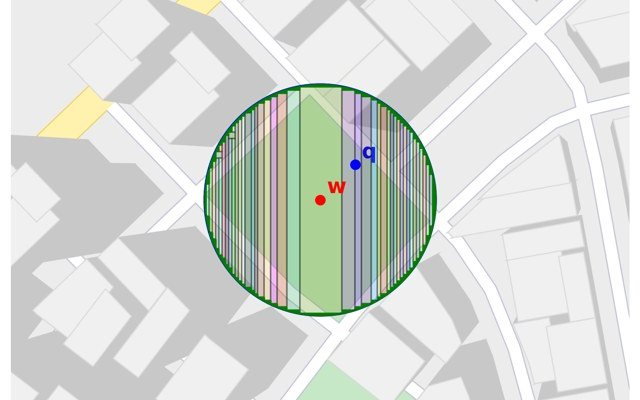
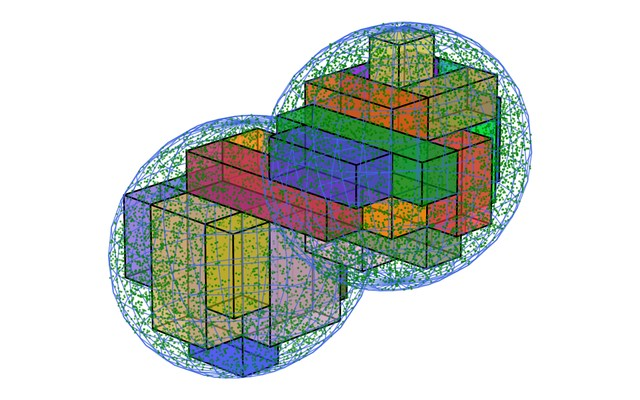
Tabs: remove the link-to-this anchors; paper preview shows the two 3D balls

diff --git a/layouts/_default/timeline.html b/layouts/_default/timeline.html
@@ -103,10 +103,7 @@
                                 <div class="tl-block">
                                     <h4 class="tl-cap">Keywords</h4>
                                     <p class="tl-keys">{{ if reflect.IsSlice . }}{{ delimit . ", " }}{{ else }}{{ . }}{{ end }}</p>
-                                    <a class="tl-perma" href="#{{ $id }}">Link to this paper</a>
                                 </div>
-                                {{- else }}
-                                <div class="tl-block"><a class="tl-perma" href="#{{ $id }}">Link to this paper</a></div>
                                 {{- end }}
                             </aside>
                             {{- else }}
@@ -134,13 +131,12 @@
                                     <div class="tl-files">{{ . | safeHTML }}</div>
                                 </div>
                                 {{- end }}
+                                {{- with $keys }}
                                 <div class="tl-block">
-                                    {{- with $keys }}
                                     <h4 class="tl-cap">Keywords</h4>
                                     <div class="tl-keys">{{ . | safeHTML }}</div>
-                                    {{- end }}
-                                    <a class="tl-perma" href="#{{ $id }}">Link to this project</a>
                                 </div>
+                                {{- end }}
                             </aside>
                             {{- end }}
                         </div>

diff --git a/assets/css/common/timeline.css b/assets/css/common/timeline.css
@@ -128,9 +128,6 @@
 .tl-files li { padding: 2px 0; color: var(--tl-muted); }
 .tl-files li a { color: var(--tl-navy); }
 .tl-keys, .tl-keys p { margin: 0; color: var(--tl-muted); font-size: 13.5px; }
-.tl-perma { display: inline-block; margin-top: 10px; color: var(--tl-muted); font-size: 13px; text-decoration: none; }
-.tl-perma::before { content: "#"; margin-right: 4px; color: var(--tl-rule); font-weight: 700; }
-.tl-perma:hover { color: var(--tl-navy); }
 
 /* a paper's BibTeX */
 .tl-actions { margin-top: 14px; }

diff --git a/content/projects/privacy-preserving-proximity-testing.md b/content/projects/privacy-preserving-proximity-testing.md
@@ -8,7 +8,7 @@ weight: -1
 # venue, abstract, keywords and bibtex are taken from the camera-ready version (main.tex).
 anchor: "gfm-asiaccs26"
 preview: "img/papers/pppt-gfm.jpg"
-previewAlt: "A circular proximity region drawn over a city map, split into strips, with two points w and q inside it"
+previewAlt: "Two overlapping 3D balls, each split into coloured boxes"
 venue: "ACM Asia Conference on Computer and Communications Security (ASIA CCS '26), Bangalore, India"
 keywords: [Fuzzy Private Set Intersection, Fuzzy Matching, Proximity Tracking]
 links:
